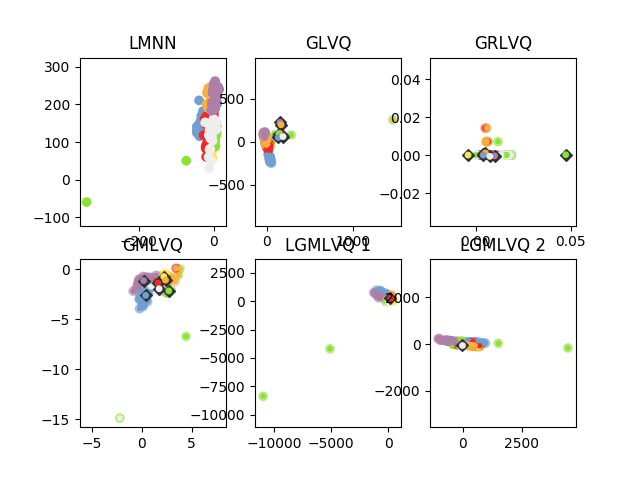
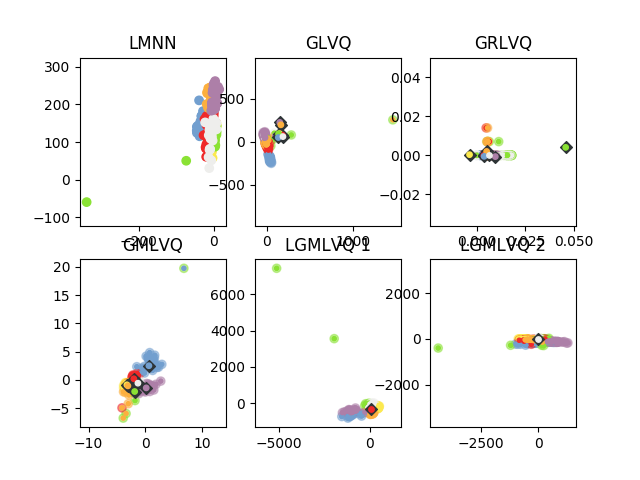
Pushing the docs for revision for branch: master, commit be667b16d8a04bb2ff67b311622c359826a511ea

diff --git a/auto_examples/plot_benchmark.html b/auto_examples/plot_benchmark.html
@@ -177,8 +177,8 @@ and classification from each implementation. Because Glvq can’t project the da
 a PCA is used.</p>
 <img alt="../_images/sphx_glr_plot_benchmark_001.png" class="sphx-glr-single-img" src="../_images/sphx_glr_plot_benchmark_001.png" />
 <p class="sphx-glr-script-out">Out:</p>
-<div class="sphx-glr-script-out highlight-none notranslate"><div class="highlight"><pre><span></span>(&#39;variance coverd by projection:&#39;, 97.04660746631957)
-(&#39;variance coverd by projection:&#39;, (98.87281243772637+0j))
+<div class="sphx-glr-script-out highlight-none notranslate"><div class="highlight"><pre><span></span>(&#39;variance coverd by projection:&#39;, 97.39503653469394)
+(&#39;variance coverd by projection:&#39;, 98.35705681100572)
 </pre></div>
 </div>
 <div class="line-block">
@@ -273,7 +273,7 @@ a PCA is used.</p>
 <span class="n">plt</span><span class="o">.</span><span class="n">show</span><span class="p">()</span>
 </pre></div>
 </div>
-<p><strong>Total running time of the script:</strong> ( 0 minutes  20.248 seconds)</p>
+<p><strong>Total running time of the script:</strong> ( 0 minutes  12.539 seconds)</p>
 <div class="sphx-glr-footer class sphx-glr-footer-example docutils container" id="sphx-glr-download-auto-examples-plot-benchmark-py">
 <div class="sphx-glr-download docutils container">
 <a class="reference download internal" download="" href="../_downloads/a7f670cf5f4a9d283c19341b866c3a66/plot_benchmark.py"><code class="xref download docutils literal notranslate"><span class="pre">Download</span> <span class="pre">Python</span> <span class="pre">source</span> <span class="pre">code:</span> <span class="pre">plot_benchmark.py</span></code></a></div>

diff --git a/auto_examples/plot_grmlvq.html b/auto_examples/plot_grmlvq.html
@@ -179,7 +179,7 @@ The projected data is shown in the right plot.</p>
 <img alt="../_images/sphx_glr_plot_grmlvq_001.png" class="sphx-glr-single-img" src="../_images/sphx_glr_plot_grmlvq_001.png" />
 <p class="sphx-glr-script-out">Out:</p>
 <div class="sphx-glr-script-out highlight-none notranslate"><div class="highlight"><pre><span></span>GRMLVQ:
-[0.70815199 0.29184801]
+[0.73828359 0.26171641]
 (&#39;variance coverd by projection:&#39;, 100.0)
 (&#39;classification accuracy:&#39;, 0.99)
 </pre></div>
@@ -213,7 +213,7 @@ The projected data is shown in the right plot.</p>
 <span class="n">plt</span><span class="o">.</span><span class="n">show</span><span class="p">()</span>
 </pre></div>
 </div>
-<p><strong>Total running time of the script:</strong> ( 0 minutes  0.173 seconds)</p>
+<p><strong>Total running time of the script:</strong> ( 0 minutes  0.118 seconds)</p>
 <div class="sphx-glr-footer class sphx-glr-footer-example docutils container" id="sphx-glr-download-auto-examples-plot-grmlvq-py">
 <div class="sphx-glr-download docutils container">
 <a class="reference download internal" download="" href="../_downloads/70de408068c5619b5a4990e791de45cb/plot_grmlvq.py"><code class="xref download docutils literal notranslate"><span class="pre">Download</span> <span class="pre">Python</span> <span class="pre">source</span> <span class="pre">code:</span> <span class="pre">plot_grmlvq.py</span></code></a></div>

diff --git a/auto_examples/plot_lgmlvq.html b/auto_examples/plot_lgmlvq.html
@@ -181,7 +181,7 @@ The projected data is shown in the right plot.</p>
 <div class="sphx-glr-script-out highlight-none notranslate"><div class="highlight"><pre><span></span>LGMLVQ:
 (&#39;variance coverd by projection:&#39;, 100.0)
 (&#39;variance coverd by projection:&#39;, 100.0)
-(&#39;classification accuracy:&#39;, 0.755)
+(&#39;classification accuracy:&#39;, 0.84)
 </pre></div>
 </div>
 <div class="line-block">
@@ -212,7 +212,7 @@ The projected data is shown in the right plot.</p>
 <span class="n">plt</span><span class="o">.</span><span class="n">show</span><span class="p">()</span>
 </pre></div>
 </div>
-<p><strong>Total running time of the script:</strong> ( 0 minutes  0.506 seconds)</p>
+<p><strong>Total running time of the script:</strong> ( 0 minutes  0.367 seconds)</p>
 <div class="sphx-glr-footer class sphx-glr-footer-example docutils container" id="sphx-glr-download-auto-examples-plot-lgmlvq-py">
 <div class="sphx-glr-download docutils container">
 <a class="reference download internal" download="" href="../_downloads/7fcc01c4eb4286b99cd6ba954dfe04ec/plot_lgmlvq.py"><code class="xref download docutils literal notranslate"><span class="pre">Download</span> <span class="pre">Python</span> <span class="pre">source</span> <span class="pre">code:</span> <span class="pre">plot_lgmlvq.py</span></code></a></div>

diff --git a/auto_examples/plot_gmlvq.html b/auto_examples/plot_gmlvq.html
@@ -180,7 +180,7 @@ The projected data is shown in the right plot.</p>
 <p class="sphx-glr-script-out">Out:</p>
 <div class="sphx-glr-script-out highlight-none notranslate"><div class="highlight"><pre><span></span>GMLVQ:
 (&#39;variance coverd by projection:&#39;, 100.0)
-(&#39;classification accuracy:&#39;, 0.995)
+(&#39;classification accuracy:&#39;, 1.0)
 </pre></div>
 </div>
 <div class="line-block">
@@ -211,7 +211,7 @@ The projected data is shown in the right plot.</p>
 <span class="n">plt</span><span class="o">.</span><span class="n">show</span><span class="p">()</span>
 </pre></div>
 </div>
-<p><strong>Total running time of the script:</strong> ( 0 minutes  0.096 seconds)</p>
+<p><strong>Total running time of the script:</strong> ( 0 minutes  0.095 seconds)</p>
 <div class="sphx-glr-footer class sphx-glr-footer-example docutils container" id="sphx-glr-download-auto-examples-plot-gmlvq-py">
 <div class="sphx-glr-download docutils container">
 <a class="reference download internal" download="" href="../_downloads/036e9d669a4bbf4beea27e49a36bb645/plot_gmlvq.py"><code class="xref download docutils literal notranslate"><span class="pre">Download</span> <span class="pre">Python</span> <span class="pre">source</span> <span class="pre">code:</span> <span class="pre">plot_gmlvq.py</span></code></a></div>

diff --git a/auto_examples/plot_glvq.html b/auto_examples/plot_glvq.html
@@ -179,7 +179,7 @@ shows the prototypes (black diamond) and their labels (small point inside the di
 <p class="sphx-glr-script-out">Out:</p>
 <div class="sphx-glr-script-out highlight-none notranslate"><div class="highlight"><pre><span></span>GLVQ:
 not implemented!
-(&#39;classification accuracy:&#39;, 1.0)
+(&#39;classification accuracy:&#39;, 0.995)
 </pre></div>
 </div>
 <div class="line-block">
@@ -208,7 +208,7 @@ not implemented!
 <span class="n">plt</span><span class="o">.</span><span class="n">show</span><span class="p">()</span>
 </pre></div>
 </div>
-<p><strong>Total running time of the script:</strong> ( 0 minutes  0.084 seconds)</p>
+<p><strong>Total running time of the script:</strong> ( 0 minutes  0.083 seconds)</p>
 <div class="sphx-glr-footer class sphx-glr-footer-example docutils container" id="sphx-glr-download-auto-examples-plot-glvq-py">
 <div class="sphx-glr-download docutils container">
 <a class="reference download internal" download="" href="../_downloads/05b6dd43dddc7c84eefbe9660e1cf3ca/plot_glvq.py"><code class="xref download docutils literal notranslate"><span class="pre">Download</span> <span class="pre">Python</span> <span class="pre">source</span> <span class="pre">code:</span> <span class="pre">plot_glvq.py</span></code></a></div>

diff --git a/auto_examples/plot_lmrslvq.html b/auto_examples/plot_lmrslvq.html
@@ -182,7 +182,7 @@ right plot.</p>
 <div class="sphx-glr-script-out highlight-none notranslate"><div class="highlight"><pre><span></span>LMRSLVQ:
 (&#39;variance coverd by projection:&#39;, 100.0)
 (&#39;variance coverd by projection:&#39;, 100.0)
-(&#39;classification accuracy:&#39;, 0.725)
+(&#39;classification accuracy:&#39;, 0.695)
 </pre></div>
 </div>
 <div class="line-block">
@@ -213,7 +213,7 @@ right plot.</p>
 <span class="n">plt</span><span class="o">.</span><span class="n">show</span><span class="p">()</span>
 </pre></div>
 </div>
-<p><strong>Total running time of the script:</strong> ( 0 minutes  4.210 seconds)</p>
+<p><strong>Total running time of the script:</strong> ( 0 minutes  7.562 seconds)</p>
 <div class="sphx-glr-footer class sphx-glr-footer-example docutils container" id="sphx-glr-download-auto-examples-plot-lmrslvq-py">
 <div class="sphx-glr-download docutils container">
 <a class="reference download internal" download="" href="../_downloads/96d38984e50faf4c22992f9bc641783d/plot_lmrslvq.py"><code class="xref download docutils literal notranslate"><span class="pre">Download</span> <span class="pre">Python</span> <span class="pre">source</span> <span class="pre">code:</span> <span class="pre">plot_lmrslvq.py</span></code></a></div>

diff --git a/auto_examples/plot_grlvq.html b/auto_examples/plot_grlvq.html
@@ -212,7 +212,7 @@ The projected data is shown in the right plot.</p>
 <span class="n">plt</span><span class="o">.</span><span class="n">show</span><span class="p">()</span>
 </pre></div>
 </div>
-<p><strong>Total running time of the script:</strong> ( 0 minutes  6.714 seconds)</p>
+<p><strong>Total running time of the script:</strong> ( 0 minutes  8.238 seconds)</p>
 <div class="sphx-glr-footer class sphx-glr-footer-example docutils container" id="sphx-glr-download-auto-examples-plot-grlvq-py">
 <div class="sphx-glr-download docutils container">
 <a class="reference download internal" download="" href="../_downloads/3903fd6ed2e272412f16398fc112e0cb/plot_grlvq.py"><code class="xref download docutils literal notranslate"><span class="pre">Download</span> <span class="pre">Python</span> <span class="pre">source</span> <span class="pre">code:</span> <span class="pre">plot_grlvq.py</span></code></a></div>

diff --git a/auto_examples/plot_mrslvq.html b/auto_examples/plot_mrslvq.html
@@ -213,7 +213,7 @@ right plot.</p>
 <span class="n">plt</span><span class="o">.</span><span class="n">show</span><span class="p">()</span>
 </pre></div>
 </div>
-<p><strong>Total running time of the script:</strong> ( 0 minutes  1.958 seconds)</p>
+<p><strong>Total running time of the script:</strong> ( 0 minutes  1.182 seconds)</p>
 <div class="sphx-glr-footer class sphx-glr-footer-example docutils container" id="sphx-glr-download-auto-examples-plot-mrslvq-py">
 <div class="sphx-glr-download docutils container">
 <a class="reference download internal" download="" href="../_downloads/d55c82f9a5a43446894e28c4fff1b696/plot_mrslvq.py"><code class="xref download docutils literal notranslate"><span class="pre">Download</span> <span class="pre">Python</span> <span class="pre">source</span> <span class="pre">code:</span> <span class="pre">plot_mrslvq.py</span></code></a></div>

diff --git a/auto_examples/plot_rslvq.html b/auto_examples/plot_rslvq.html
@@ -210,7 +210,7 @@ not implemented!
 <span class="n">plt</span><span class="o">.</span><span class="n">show</span><span class="p">()</span>
 </pre></div>
 </div>
-<p><strong>Total running time of the script:</strong> ( 0 minutes  0.869 seconds)</p>
+<p><strong>Total running time of the script:</strong> ( 0 minutes  0.946 seconds)</p>
 <div class="sphx-glr-footer class sphx-glr-footer-example docutils container" id="sphx-glr-download-auto-examples-plot-rslvq-py">
 <div class="sphx-glr-download docutils container">
 <a class="reference download internal" download="" href="../_downloads/4f5a6df5f5567dcf5790e1372dc57203/plot_rslvq.py"><code class="xref download docutils literal notranslate"><span class="pre">Download</span> <span class="pre">Python</span> <span class="pre">source</span> <span class="pre">code:</span> <span class="pre">plot_rslvq.py</span></code></a></div>
